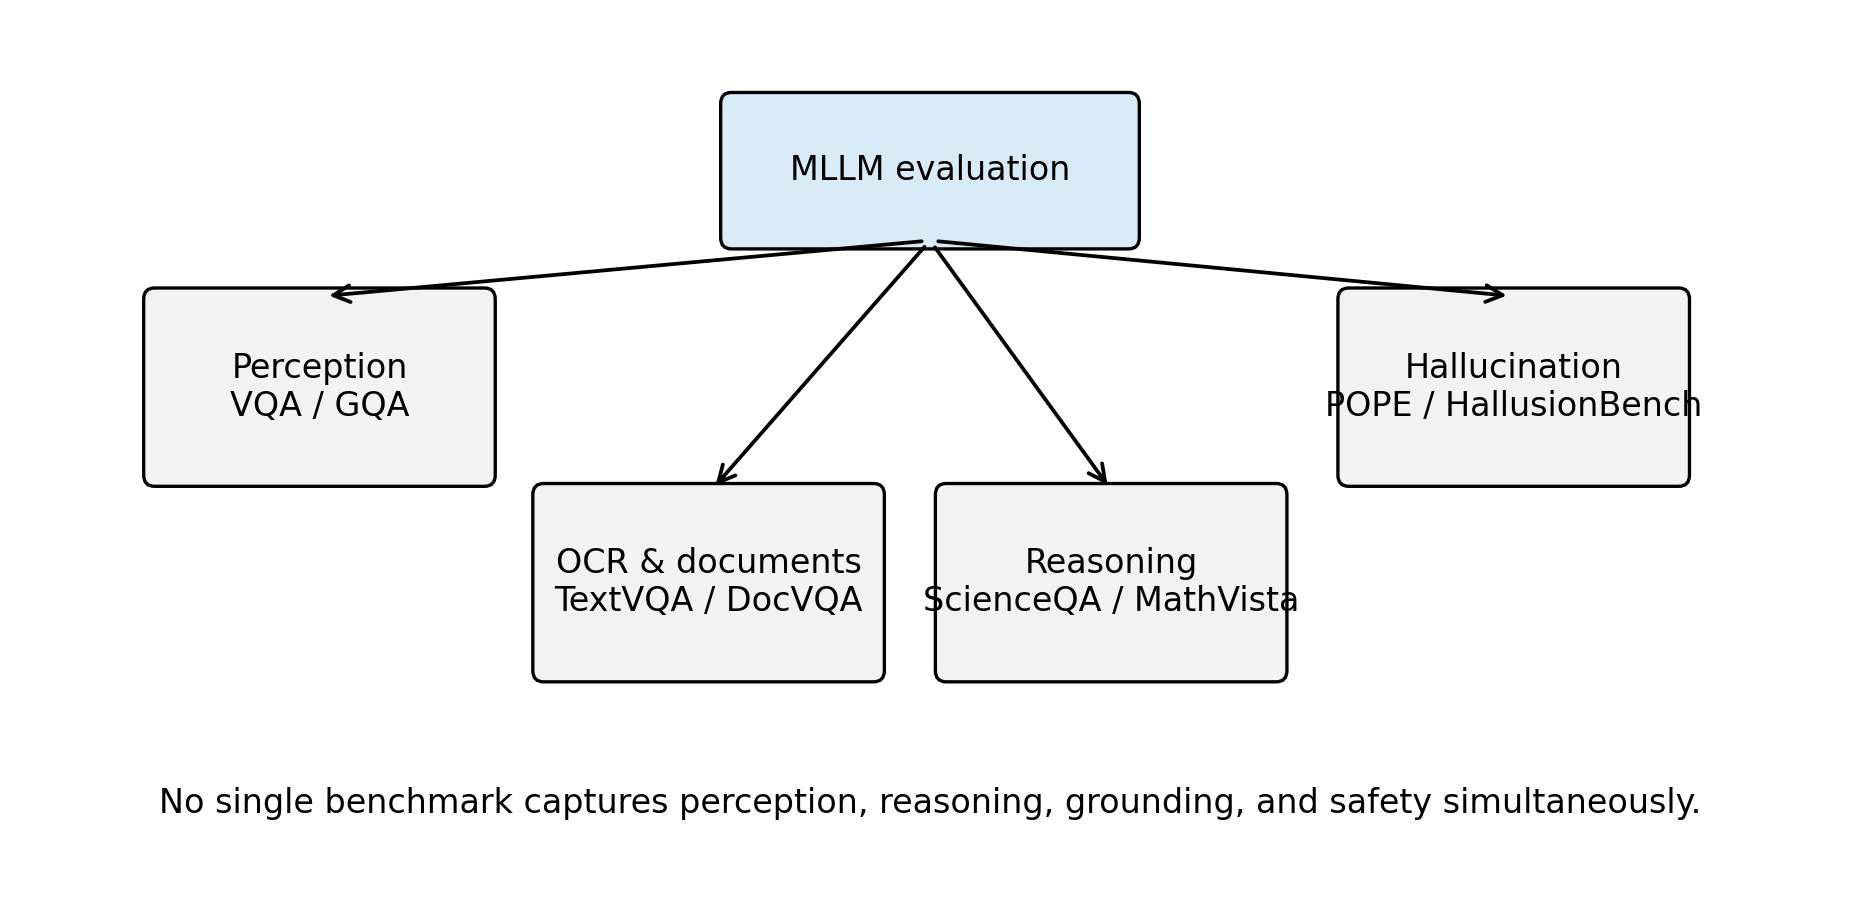
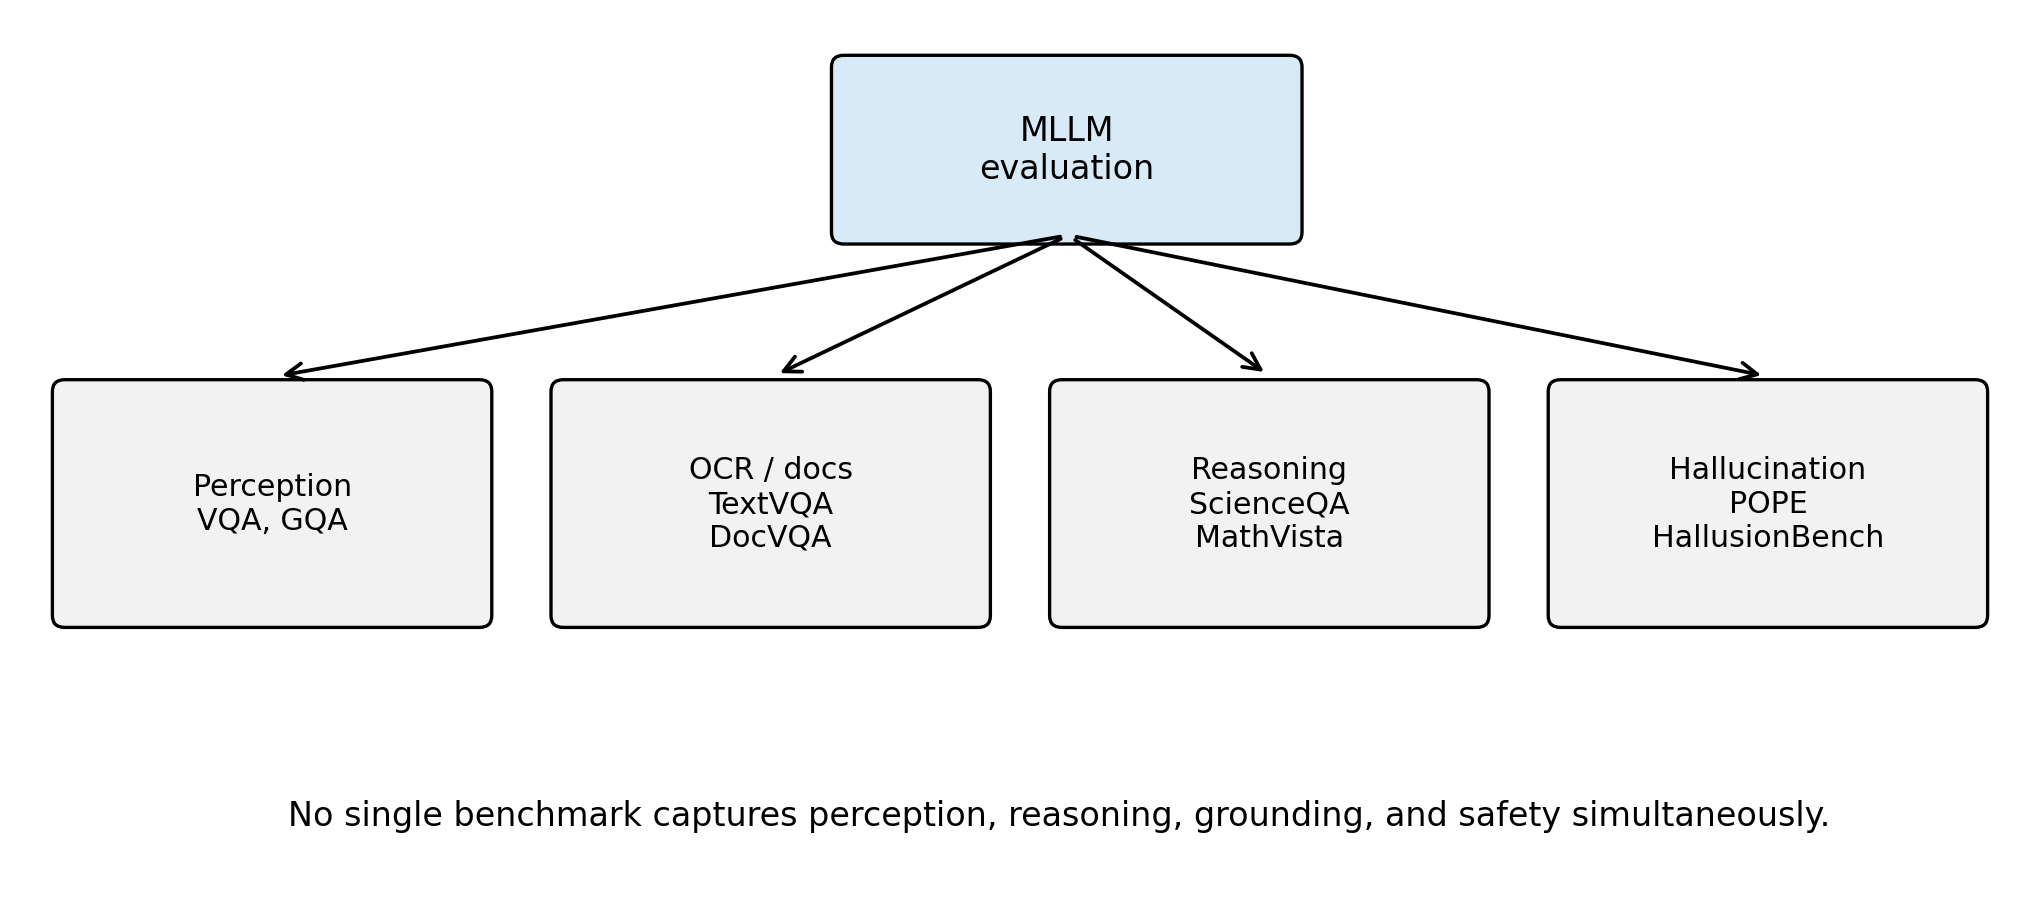
Fix Figure 4 benchmark taxonomy layout

diff --git a/scripts/generate_figures.py b/scripts/generate_figures.py
@@ -124,24 +124,24 @@ def save_connector_diagram() -> None:
 
 
 def save_benchmark_taxonomy_diagram() -> None:
-    plt.figure(figsize=(6.2, 3.0))
+    plt.figure(figsize=(7.0, 3.2))
     ax = plt.gca()
     ax.axis("off")
-    add_box(ax, (2.35, 2.2), "MLLM evaluation", 1.5, 0.5, "#d9eaf7")
+    add_box(ax, (2.65, 2.25), "MLLM\nevaluation", 1.45, 0.58, "#d9eaf7", font_size=8)
     branches = [
-        ((0.2, 1.35), "Perception\nVQA / GQA"),
-        ((1.65, 0.65), "OCR & documents\nTextVQA / DocVQA"),
-        ((3.15, 0.65), "Reasoning\nScienceQA / MathVista"),
-        ((4.65, 1.35), "Hallucination\nPOPE / HallusionBench"),
+        ((0.15, 0.95), "Perception\nVQA, GQA"),
+        ((1.75, 0.95), "OCR / docs\nTextVQA\nDocVQA"),
+        ((3.35, 0.95), "Reasoning\nScienceQA\nMathVista"),
+        ((4.95, 0.95), "Hallucination\nPOPE\nHallusionBench"),
     ]
     for xy, label in branches:
-        add_box(ax, xy, label, 1.25, 0.65, "#f2f2f2")
-        add_arrow(ax, (3.1, 2.2), (xy[0] + 0.63, xy[1] + 0.65))
-    ax.text(3.1, 0.15, "No single benchmark captures perception, reasoning, grounding, and safety simultaneously.", ha="center", fontsize=8)
-    ax.set_xlim(0, 6.2)
-    ax.set_ylim(0, 2.9)
+        add_box(ax, xy, label, 1.35, 0.78, "#f2f2f2", font_size=7.2)
+        add_arrow(ax, (3.38, 2.25), (xy[0] + 0.68, xy[1] + 0.82))
+    ax.text(3.35, 0.25, "No single benchmark captures perception, reasoning, grounding, and safety simultaneously.", ha="center", fontsize=8)
+    ax.set_xlim(0, 6.45)
+    ax.set_ylim(0.05, 3.0)
     plt.tight_layout()
-    plt.savefig(FIG_DIR / "figure4_benchmark_taxonomy.png", dpi=300)
+    plt.savefig(FIG_DIR / "figure4_benchmark_taxonomy.png", dpi=300, bbox_inches="tight", pad_inches=0.05)
     plt.close()
 
 

diff --git a/scripts/format_chinaxiv.py b/scripts/format_chinaxiv.py
@@ -367,7 +367,8 @@ def add_figure(doc: Document, caption: str, image_path: Path) -> None:
         para.alignment = WD_ALIGN_PARAGRAPH.CENTER
         para.paragraph_format.space_after = Pt(0)
         run = para.add_run()
-        run.add_picture(str(image_path), width=Cm(10.4))
+        image_width = Cm(13.6) if image_path == BENCHMARK_TAXONOMY_FIGURE else Cm(10.4)
+        run.add_picture(str(image_path), width=image_width)
     para = doc.add_paragraph(caption)
     para.alignment = WD_ALIGN_PARAGRAPH.CENTER
     para.paragraph_format.space_after = Pt(0)